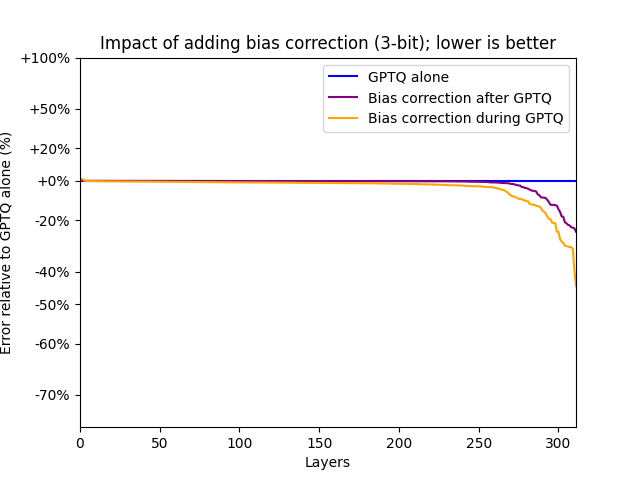
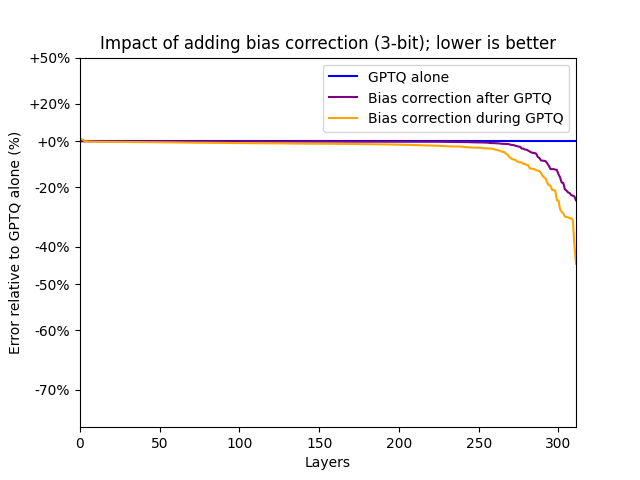
Discuss latest experiments in the README

diff --git a/results/graph.py b/results/graph.py
@@ -61,9 +61,9 @@ def export_correction_graph(b):
     plt.ylabel("Error relative to GPTQ alone (%)")
     plt.yscale("log")
     plt.xlim(left=0, right=len(data) - 1)
-    plt.ylim(bottom=0.25, top=2.0)
+    plt.ylim(bottom=0.25, top=1.5)
 
-    yticks = [0.3, 0.4, 0.5, 0.6, 0.8, 1.0, 1.2, 1.5, 2.0]
+    yticks = [0.3, 0.4, 0.5, 0.6, 0.8, 1.0, 1.2, 1.5]
     plt.gca().set_yticks([])
     plt.gca().set_yticks([], minor=True)
     plt.gca().set_yticks(yticks)
@@ -178,9 +178,9 @@ def export_local_search_graph(b):
     plt.ylabel("Error relative to no local search (%)")
     plt.yscale("log")
     plt.xlim(left=0, right=len(data) - 1)
-    plt.ylim(bottom=0.125, top=2.0)
+    plt.ylim(bottom=0.25, top=1.5)
 
-    yticks = [0.2, 0.3, 0.4, 0.5, 0.6, 0.8, 1.0, 1.2, 1.5, 2.0]
+    yticks = [0.3, 0.4, 0.5, 0.6, 0.8, 1.0, 1.2, 1.5]
     plt.gca().set_yticks([])
     plt.gca().set_yticks([], minor=True)
     plt.gca().set_yticks(yticks)

diff --git a/experiments/bits.py b/experiments/bits.py
@@ -107,6 +107,7 @@ for root in it:
             min_factor=args.min_factor,
             max_factor=args.max_factor,
         )
+        # FIXME: this should use the corrected hessian here
         quant_weight = quantize_with_scaling(
             weight, sc, cb, H=hessian, act_order="sqerr", damp=0.03
         )

diff --git a/README.md b/README.md
@@ -29,6 +29,7 @@ Analyzing the error at the layer level is therefore the natural approach.
 Moreover, network-level metrics have a tendency to be noisy, can hide small quantization errors or on the contrary be over-sensitive to some layers.
 
 Our baseline for comparison is the [GPTQ](https://arxiv.org/abs/2210.17323) algorithm with 3-bit and 1.5-bit weights.
+We use GPTQ's given parameters for the heuristic (diagonal ordering and 1% dampening).
 For the layer weights and metrics, we use layer statistics from a full accuracy run on several smaller networks (OPT-125M, OPT-350M, BLOOM-560M).
 We compare the error introduced by the quantization with and without our methods.
 
@@ -46,10 +47,13 @@ We test three different approaches to scaling, and compare the layer error after
 * using the diagonal of the hessian matrix to compute the error, which has the same computational cost as the MSE;
 * using the full weight optimization to compute the error for each scaling value, which is extremely expensive but is theoretically optimal.
 
+<div align="center">
 <img src="results/scaling_1.5b.png" width=45%><img src="results/scaling_3b.png" width=45%>
+</div>
 
 The usual approach of minimizing the MSE yields results that are far from optimal.
-Using the full hessian matrix or its diagonal yields similar results that are on average much better than MSE alone, although they are still far from the theoretical optimum of integrating the weight optimization algorithm with the scaling method.
+Using the full hessian matrix or its diagonal yields similar results that are on average much better than MSE alone.
+Results are far from the theoretical optimum, and even slightly degraded for some layers, leaving room for improvement. 
 
 
 ### Trick 2: combining with bias correction
@@ -64,12 +68,12 @@ We test three different ways to update the bias:
 * applying bias correction after weight optimization, yielding a slightly smaller layer error;
 * taking the effect of bias correction into account during weight optimization.
 
+<div align="center">
 <img src="results/correction_1.5b.png" width=45%><img src="results/correction_3b.png" width=45%>
+</div>
 
 Adding back bias correction greatly improves certain layers, in particular some attention layers in all networks.
-While it is always an improvement in theory, bias correction can play havoc with the optimization algorithm, and taking it into account during weight optimization is sometimes detrimental.
-Adding bias correction after optimization, or picking the best of the two results, is always better than the baseline.
-Unsurprisingly, it has more impact with a more agressive quantization.
+Unsurprisingly, it has more impact with a more agressive quantization and yields better result if taken into account for weight optimization.
 
 ### Trick 3: adding local search
 
@@ -77,20 +81,29 @@ The weight optimization problem is NP-hard, and can only be solved at scale in a
 GPTQ provides a good heuristic for it, however the heuristic of choice to obtain good solutions to similar problems (QUBO) is a simple local search.
 For this reason, we test the effect of applying a few local search moves after GPTQ, in a best-first manner.
 
+<div align="center">
 <img src="results/local_search_1.5b.png" width=45%><img src="results/local_search_3b.png" width=45%>
+</div>
 
 The effect of just a few local search moves is notable on many layers, and applying them after GPTQ can drastically reduce layer error.
 
 ### Minor tricks
 
 Other tricks yield smaller but useful improvements:
-* Using a different ordering for GPTQ. GPTQ makes rounding decisions for the weights in a greedy manner; they obtain a good ordering using the diagonal of the matrix in decreasing order. We improve this slightly, and multiply this value by the sum of squares of the quantization error (without correction); this takes better account of the effect of saturation.
+* Using a different ordering for GPTQ. GPTQ makes rounding decisions for the weights in a greedy manner; they obtain a good ordering using the diagonal of the matrix in decreasing order. 
+Instead, we multiply this value by the sum of squares of the quantization error; this takes better account of the effect of saturation.
 * Using a different dampening for GPTQ. GPTQ does not behave well on ill-conditioned matrix, and adding a larger penalty term to the matrix paradoxically yields better results.
+The original paper uses a 1% penalty, but penalties of 3-10% behave better, while removing the penalty altogether degrades results significantly.
+
+<div align="center">
+<img src="results/ordering_3b.png" width=40%><img src="results/dampening_3b.png" width=40%>
+</div>
 
 ### The many tricks that do not work
 
 The following approaches did not yield promising results and were abandoned:
-* Improved codebooks: the data is far from being gaussian-distributed, but training a codebook naively is not better than a NF4 codebook. A good codebook training would take the importance of individual weights in the layer into account.
+* Improved codebooks: the data is far from being gaussian-distributed, but training a codebook naively on the data is not better than a [NF4 codebook](https://arxiv.org/abs/2305.14314).
+A good codebook training needs to take the hessian (or its diagonal) into account.
 * Entropy coding: it is tempting to combine codebook optimization with entropy coding to reduce storage needs. However, the gain in entropy is not huge compared to an error-optimized codebook, and does not seem worth the effort.
 * GPTQ reordering: clever heuristic orderings for GPTQ based on the hessian matrix do not bring a reduction in layer error, compared to using its diagonal as the original paper does. We tested several variations using the diagonal of the inverse and pivoted Cholesky decompositions.
 * More complex algorithms for weight optimization: it just doesn't scale, but if you want to go in this direction you probably want to use the [MQLib](https://github.com/MQLib/MQLib) as a solver.
@@ -101,16 +114,21 @@ Finally, we put these algorithms together in Sleekit:
 
 1. the hessian matrix is modified to represent the effect of bias correction;
 2. scaling is performed based on the hessian diagonal;
-3. weight optimization uses our slightly improved ordering.
+3. weight optimization uses our slightly improved ordering and dampening.
 
-The computational cost of the algorithm is not increased so far compared to GPTQ. At the cost of additional computations we add:
+The computational cost of the algorithm is not increased so far compared to GPTQ: this is the "Sleekit light" version.
 
-4. local search is performed during weight optimization for 100 moves.
+At the cost of additional computations we add the following for the "Sleekit heavy" version:
 
+4. scaling is performed based on a weight optimization computation;
+5. local search is performed during the final weight optimization for 1000 moves.
 
-The various tricks interact well, and their benefits seem to stack, reducing the squared error by one third on average.
-
+<div align="center">
 <img src="results/compare_1.5b.png" width=45%><img src="results/compare_3b.png" width=45%>
+</div>
+
+Most of the improvement is due to the better scaling method, but the various methods stack well. Together, they yield to a reduced error on almost all layers.
+On the other hand, a minority of layers experiences a huge improvement, with error reduced by 80% or more. It is still unclear what the impact is for the neural network as a whole.
 
 ## References
 
